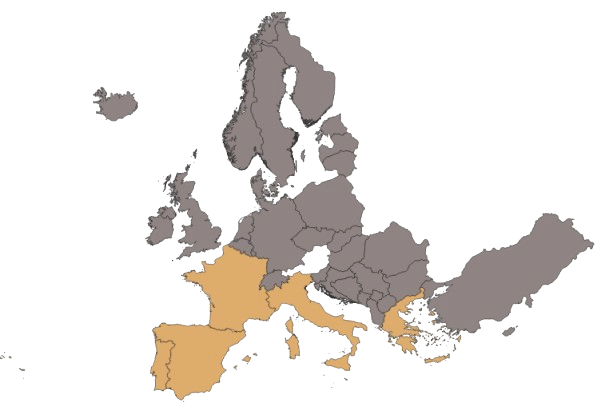
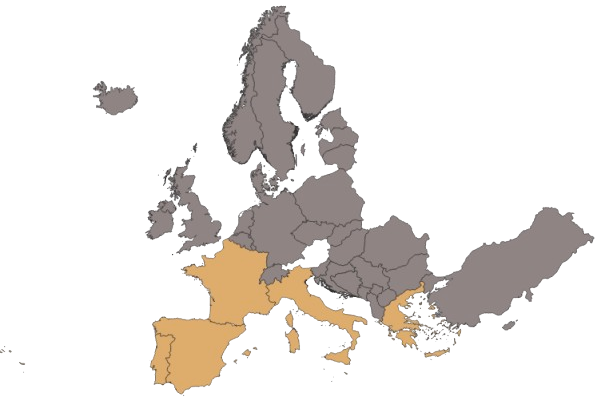
img

diff --git a/about_c.html b/about_c.html
@@ -96,8 +96,11 @@
     </header>
 
     <!-- Secção da imagem/friso -->
-    <section class="w-full flex-shrink-0">
+    <section class="w-full flex-shrink-0 relative">
       <img src="https://github.com/clepsydraisa/clepsydra_isa/blob/main/images/bcground.png?raw=true" alt="Background" class="w-full h-auto block" />
+      <div class="absolute top-0 right-0 h-full flex items-center pr-12 pt-8">
+        <img src="https://github.com/clepsydraisa/clepsydra_isa/blob/main/images/europa_clep.png?raw=true" alt="Europa Clepsydra" class="max-h-96 w-auto object-contain" />
+      </div>
     </section>
 
     <!-- Footer -->
